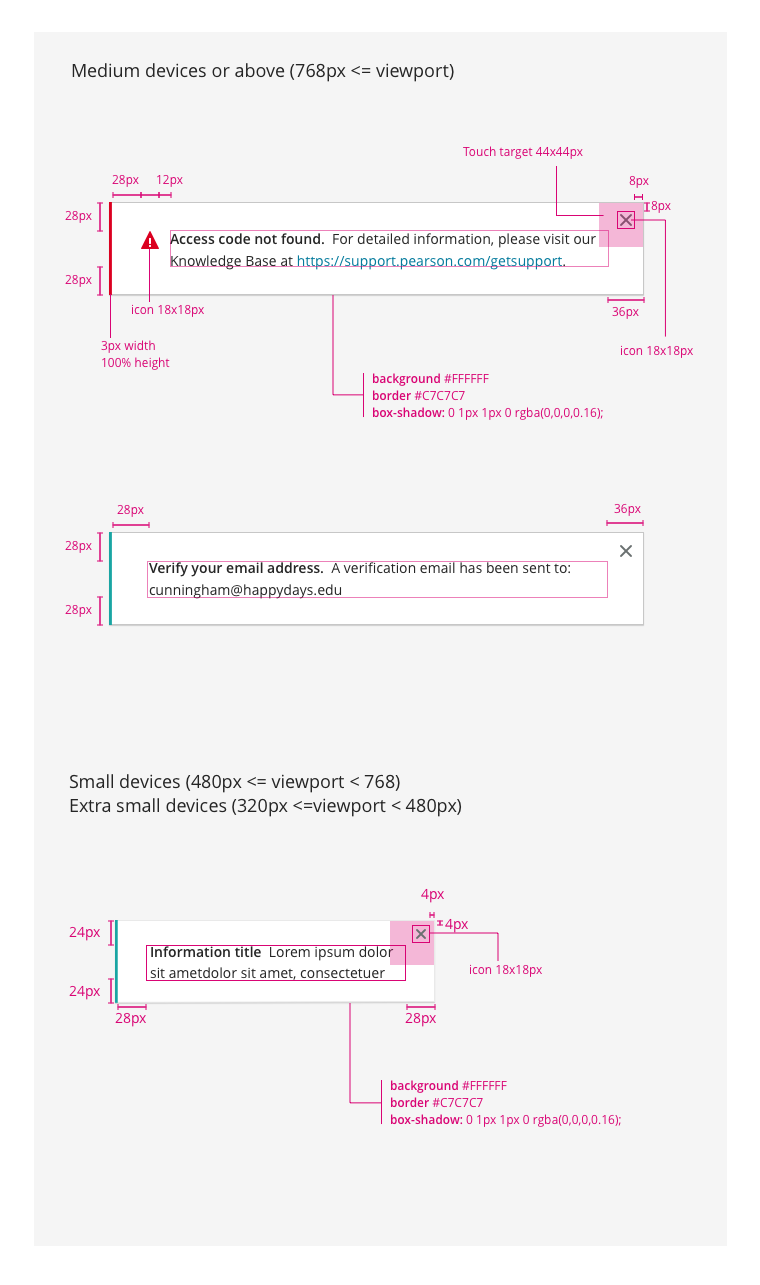
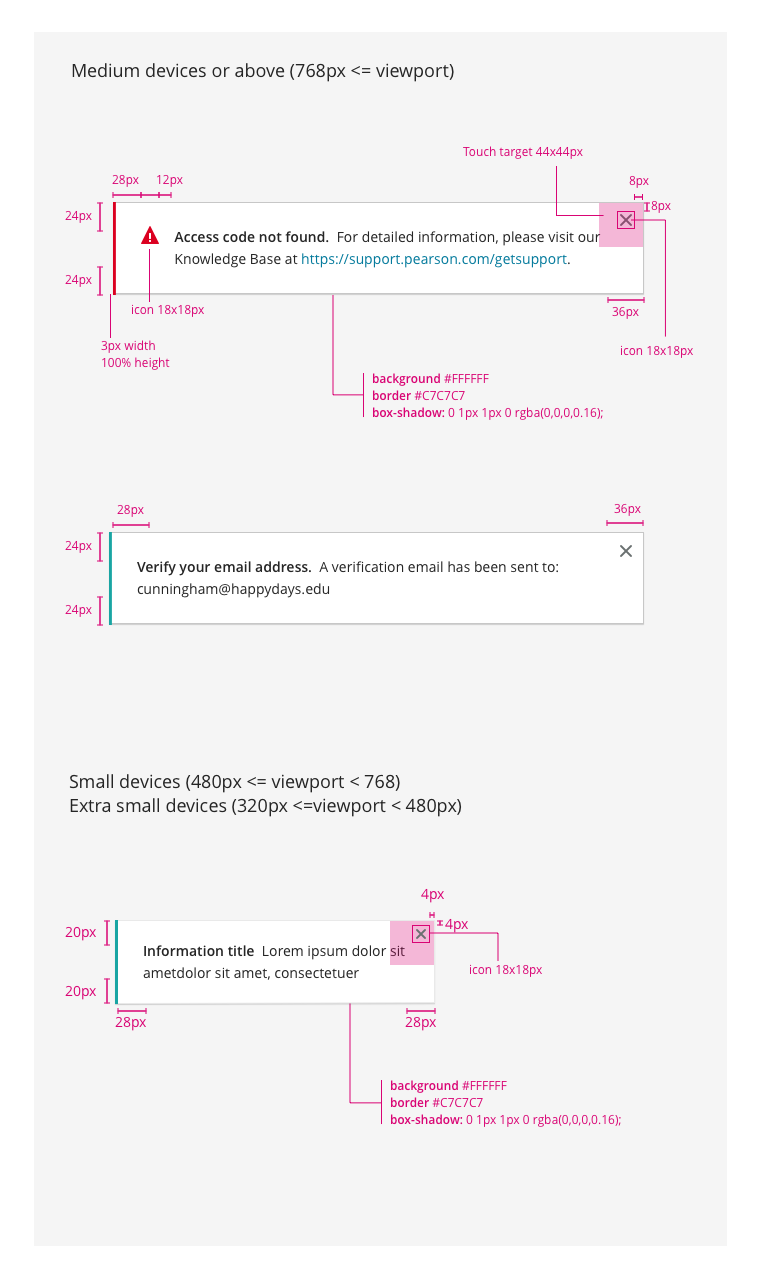
Fix redline dimensions

diff --git a/c/alerts/v2.0.3/index.md b/c/alerts/v2.0.3/index.md
@@ -56,6 +56,8 @@ blocks:
         src: ./assets/alert_over.png
         caption: The message should appear in the upper corner as part of the normal page load.
         border: true
+    features:
+      - Static Global Alert
 
   - type: two column
     text: |
@@ -85,6 +87,8 @@ blocks:
       - type: wide video
         src: ./assets/animation_alert.mp4
         caption: The animation for showing/dismissing a dynamic alert.
+    features:
+      - Dynamic Global Alert
 
   - type: section
     name: Inline Alert
@@ -101,6 +105,8 @@ blocks:
         src: ./assets/alert_inline.png
         caption: The example of message appear below the content area.
         border: true
+    features:
+      - Inline Alert
 
   - type: section
     name: Variants
@@ -123,6 +129,10 @@ blocks:
     contents:
       - type: wide image
         src: ./assets/alerts_all.png
+    features:
+      - Warning/Error Alert
+      - Success Alert
+      - Information Alert
 
 
   - type: section
@@ -134,8 +144,8 @@ blocks:
 
       Dimensions
       : - Color bar is 3px wide
-        - At [medium and larger](http://pearson-higher-ed.github.io/design/c/breakpoints/v1.0.2/#breakpoints--medium) breakpoints, horizontal and left padding is 28px, right padding is 36px
-        - At smaller breakpoints vertical padding is 24px and horizontal is 28px
+        - At [medium and larger](http://pearson-higher-ed.github.io/design/c/breakpoints/v1.0.2/#breakpoints--medium) breakpoints, vertical padding is 24px, left padding is 28px, right padding is 36px
+        - At smaller breakpoints vertical padding is 20px and horizontal is 28px
 
       Colors
       : - Error and warning color is [Strawberry Red](http://pearson-higher-ed.github.io/design/c/colors/v3.0.1/#colors--strawberry-red)
@@ -157,10 +167,6 @@ blocks:
         - Success icon is [check-lg-18](http://pearson-higher-ed.github.io/design/c/icons/v2.3.0-beta.2/#icons--check-lg)
         - 12px spacing between the icon and the text area
 
-      Animation
-      : - Drop in uses an ease-in-out easing curve with a duration of 300ms
-        - Slide out uses an ease-in easing curve with a duration of 200ms
-
       Focus Behavior
       : - Most alerts can just be announced by using ARIA alert roles and don't need special focus treatment
         - If an alert is particularly important, focus should be moved to the first element of the alert (and restored to it's original position upon dismissal)
@@ -169,6 +175,10 @@ blocks:
     contents:
       - type: wide image
         src: ./assets/alerts_spec.png
+    redlines:
+      - Warning/Error Alert
+      - Success Alert
+      - Information Alert
 
   - type: two column
     text: |
@@ -181,10 +191,17 @@ blocks:
       Positioning
       : - 32px down and right from the top left viewport corner at [small and larger](http://pearson-higher-ed.github.io/design/c/breakpoints/v1.0.2/#breakpoints--small) breakpoints
         - 36px from the top with 24px horizontal margins at [extra small breakpoints](http://pearson-higher-ed.github.io/design/c/breakpoints/v1.0.2/#breakpoints--extra-small)
+
+      Animation (for Dynamic Global)
+      : - Drop in uses an ease-in-out easing curve with a duration of 300ms
+        - Slide out uses an ease-in easing curve with a duration of 200ms
     contents:
       - type: wide image
         src: ./assets/alerts_spec_popover.png
         caption: Popover alerts
+    redlines:
+      - Static Global Alert
+      - Dynamic Global Alert
 
   - type: two column
     text: |
@@ -200,6 +217,8 @@ blocks:
       - type: wide image
         src: ./assets/alerts_spec_desktop 1.png
         caption: Content (task) level alert
+    redlines:
+      - Inline Alert
 
 
 
